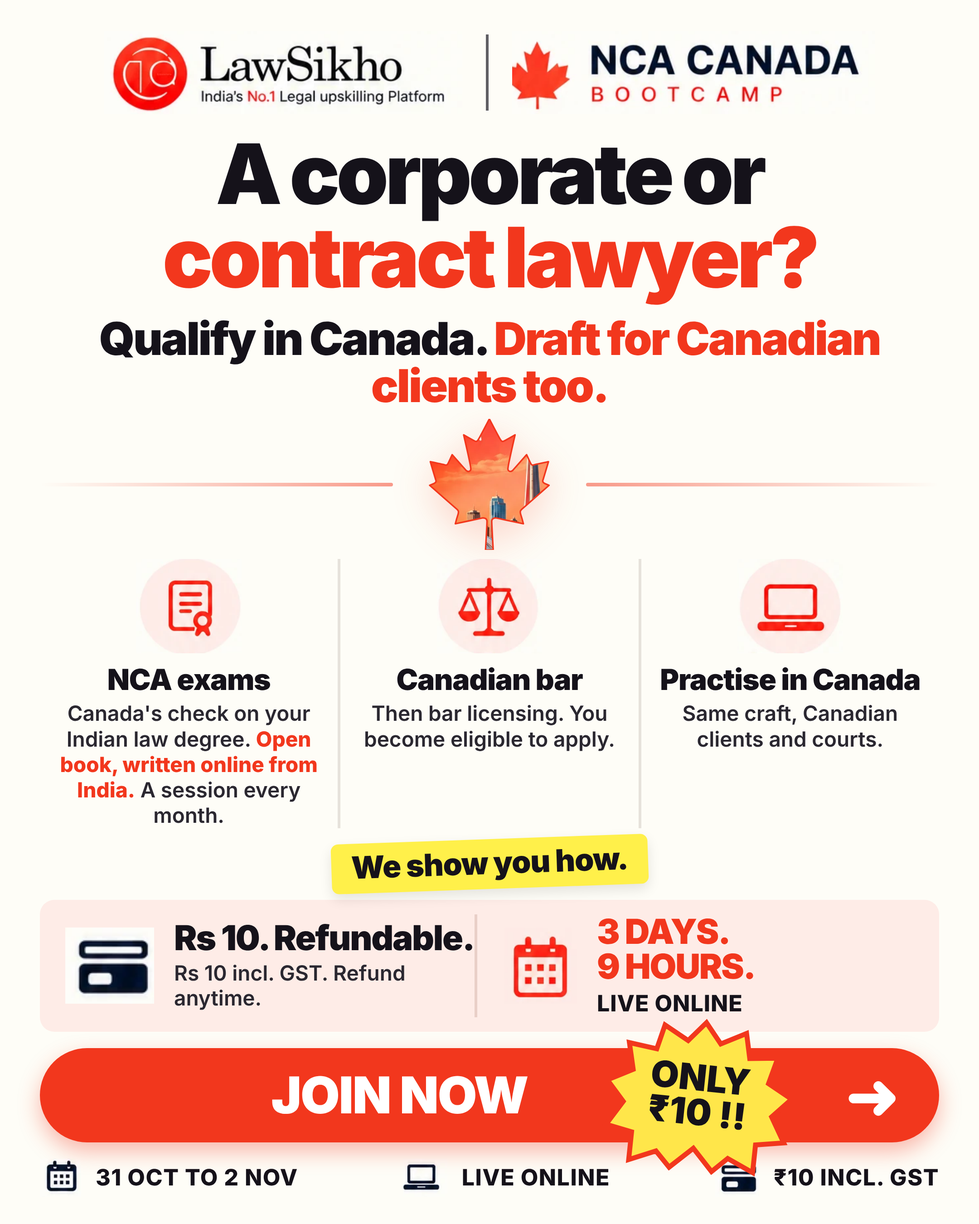
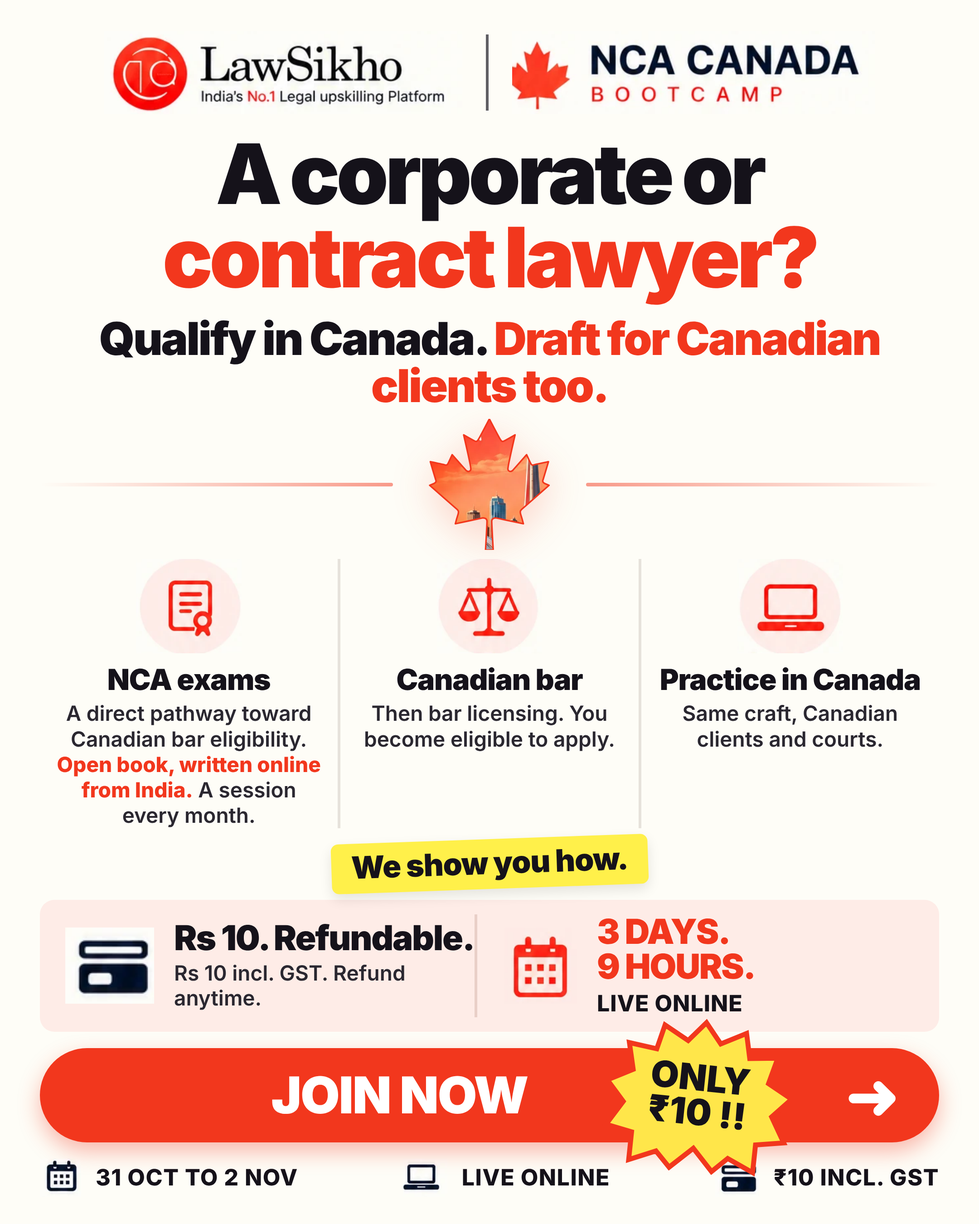
NCA pillar line and practice spelling, on instruction
Pillar line is now: A direct pathway toward Canadian bar eligibility. Open
book, written online from India. A session every month. Faces use practice
and practicing everywhere. README records both decisions and the flags that
were raised and overruled, with the one-line way back.

Claude-Session: https://claude.ai/code/session_01Rgy1nQS1Vhzfu9YdFrEqSi

Changed region(s): [[0.062, 0.56, 0.3412, 0.6844]]

diff --git a/creatives/NCA_SkylineTemplate/html/nca_sky_01_broad_thinking_about_canada.html b/creatives/NCA_SkylineTemplate/html/nca_sky_01_broad_thinking_about_canada.html
@@ -42,11 +42,11 @@ em{font-style:normal;color:#F2371D}
 .foot img{height:42px;width:auto}
 </style></head><body>
 <div class="hdr"><img src="../assets/logo_lawsikho.png"><div class="div"></div><img src="../assets/brand_nca.png"></div>
-<div class="copy"><div class="hook">A lawyer who keeps thinking <em>about Canada?</em></div><div class="prize">You could <em>practise law in Canada</em> with your Indian LLB.</div></div>
+<div class="copy"><div class="hook">A lawyer who keeps thinking <em>about Canada?</em></div><div class="prize">You could <em>practice law in Canada</em> with your Indian LLB.</div></div>
 <div class="leafbox"><div class="rule l"></div><div class="leafwrap"><svg viewBox="0 0 512 512" preserveAspectRatio="xMidYMid meet"><defs><clipPath id="leaf"><path d="M383.8 351.7c2.5-2.5 105.2-92.4 105.2-92.4l-17.5-7.5c-10-4.9-7.4-11.5-5-17.4 2.4-7.6 20.1-67.3 20.1-67.3s-47.7 10-57.7 12.5c-7.5 2.4-10-2.5-12.5-7.5s-15-32.4-15-32.4-52.6 59.9-55.1 62.3c-10 7.5-20.1 0-17.6-10 0-10 27.6-129.6 27.6-129.6s-30.1 17.4-40.1 22.4c-7.5 5-12.6 5-17.6-5C293.5 72.3 255.9 0 255.9 0s-37.5 72.3-42.5 79.8c-5 10-10 10-17.6 5-10-5-40.1-22.4-40.1-22.4s27.6 119.6 27.6 129.6c2.5 10-7.5 17.5-17.5 10-2.5-2.5-55.1-62.3-55.1-62.3s-12.5 27.5-15 32.4c-2.5 5.1-5 10-12.5 7.5-10-2.5-57.7-12.5-57.7-12.5s17.7 59.7 20.1 67.3c2.4 6 5 12.5-5 17.4L23 259.3s102.6 89.9 105.2 92.4c5.1 5 10 7.5 5.1 22.5-5.1 15-10.1 35.1-10.1 35.1s95.2-20.1 105.3-22.6c8.7-.9 18.3 2.5 18.3 12.5S241 512 241 512h30s-5.8-102.7-5.8-112.8 9.5-13.4 18.3-12.5c10 2.5 105.3 22.6 105.3 22.6s-5-20.1-10.1-35.1c-4.9-15 0-17.5 5.1-22.5z"/></clipPath></defs>
 <image href="../assets/skyline_fill.png" x="0" y="0" width="512" height="512" preserveAspectRatio="xMidYMid slice" clip-path="url(#leaf)"/>
 <path d="M383.8 351.7c2.5-2.5 105.2-92.4 105.2-92.4l-17.5-7.5c-10-4.9-7.4-11.5-5-17.4 2.4-7.6 20.1-67.3 20.1-67.3s-47.7 10-57.7 12.5c-7.5 2.4-10-2.5-12.5-7.5s-15-32.4-15-32.4-52.6 59.9-55.1 62.3c-10 7.5-20.1 0-17.6-10 0-10 27.6-129.6 27.6-129.6s-30.1 17.4-40.1 22.4c-7.5 5-12.6 5-17.6-5C293.5 72.3 255.9 0 255.9 0s-37.5 72.3-42.5 79.8c-5 10-10 10-17.6 5-10-5-40.1-22.4-40.1-22.4s27.6 119.6 27.6 129.6c2.5 10-7.5 17.5-17.5 10-2.5-2.5-55.1-62.3-55.1-62.3s-12.5 27.5-15 32.4c-2.5 5.1-5 10-12.5 7.5-10-2.5-57.7-12.5-57.7-12.5s17.7 59.7 20.1 67.3c2.4 6 5 12.5-5 17.4L23 259.3s102.6 89.9 105.2 92.4c5.1 5 10 7.5 5.1 22.5-5.1 15-10.1 35.1-10.1 35.1s95.2-20.1 105.3-22.6c8.7-.9 18.3 2.5 18.3 12.5S241 512 241 512h30s-5.8-102.7-5.8-112.8 9.5-13.4 18.3-12.5c10 2.5 105.3 22.6 105.3 22.6s-5-20.1-10.1-35.1c-4.9-15 0-17.5 5.1-22.5z" fill="none" stroke="#F2371D" stroke-width="6" stroke-linejoin="round"/></svg></div><div class="rule r"></div></div>
-<div class="pillars"><div class="pil"><img src="../assets/icon_nca.png"><div class="pt">NCA exams</div><div class="pd">Canada's check on your Indian law degree. <em>Open book, written online from India.</em> A session every month.</div></div><div class="pil"><img src="../assets/icon_bar.png"><div class="pt">Canadian bar</div><div class="pd">Then bar licensing. You become eligible to apply.</div></div><div class="pil"><img src="../assets/icon_laptop.png"><div class="pt">Practise in Canada</div><div class="pd">Same craft, Canadian clients and courts.</div></div></div>
+<div class="pillars"><div class="pil"><img src="../assets/icon_nca.png"><div class="pt">NCA exams</div><div class="pd">A direct pathway toward Canadian bar eligibility. <em>Open book, written online from India.</em> A session every month.</div></div><div class="pil"><img src="../assets/icon_bar.png"><div class="pt">Canadian bar</div><div class="pd">Then bar licensing. You become eligible to apply.</div></div><div class="pil"><img src="../assets/icon_laptop.png"><div class="pt">Practice in Canada</div><div class="pd">Same craft, Canadian clients and courts.</div></div></div>
 <div class="sticker">We show you how.</div>
 <div class="band">
  <div class="cell"><img src="../assets/foot_card.png"><div><div class="cb">Rs 10. Refundable.</div><div class="cs">Rs 10 incl. GST. Refund anytime.</div></div></div>

diff --git a/creatives/NCA_SkylineTemplate/html/nca_sky_03_fresh_graduate.html b/creatives/NCA_SkylineTemplate/html/nca_sky_03_fresh_graduate.html
@@ -42,11 +42,11 @@ em{font-style:normal;color:#F2371D}
 .foot img{height:42px;width:auto}
 </style></head><body>
 <div class="hdr"><img src="../assets/logo_lawsikho.png"><div class="div"></div><img src="../assets/brand_nca.png"></div>
-<div class="copy"><div class="hook">LLB done, <em>not yet practising?</em></div><div class="prize">Your Indian LLB can take you to <em>practise in Canada.</em></div></div>
+<div class="copy"><div class="hook">LLB done, <em>not yet practicing?</em></div><div class="prize">Your Indian LLB can take you to <em>practice in Canada.</em></div></div>
 <div class="leafbox"><div class="rule l"></div><div class="leafwrap"><svg viewBox="0 0 512 512" preserveAspectRatio="xMidYMid meet"><defs><clipPath id="leaf"><path d="M383.8 351.7c2.5-2.5 105.2-92.4 105.2-92.4l-17.5-7.5c-10-4.9-7.4-11.5-5-17.4 2.4-7.6 20.1-67.3 20.1-67.3s-47.7 10-57.7 12.5c-7.5 2.4-10-2.5-12.5-7.5s-15-32.4-15-32.4-52.6 59.9-55.1 62.3c-10 7.5-20.1 0-17.6-10 0-10 27.6-129.6 27.6-129.6s-30.1 17.4-40.1 22.4c-7.5 5-12.6 5-17.6-5C293.5 72.3 255.9 0 255.9 0s-37.5 72.3-42.5 79.8c-5 10-10 10-17.6 5-10-5-40.1-22.4-40.1-22.4s27.6 119.6 27.6 129.6c2.5 10-7.5 17.5-17.5 10-2.5-2.5-55.1-62.3-55.1-62.3s-12.5 27.5-15 32.4c-2.5 5.1-5 10-12.5 7.5-10-2.5-57.7-12.5-57.7-12.5s17.7 59.7 20.1 67.3c2.4 6 5 12.5-5 17.4L23 259.3s102.6 89.9 105.2 92.4c5.1 5 10 7.5 5.1 22.5-5.1 15-10.1 35.1-10.1 35.1s95.2-20.1 105.3-22.6c8.7-.9 18.3 2.5 18.3 12.5S241 512 241 512h30s-5.8-102.7-5.8-112.8 9.5-13.4 18.3-12.5c10 2.5 105.3 22.6 105.3 22.6s-5-20.1-10.1-35.1c-4.9-15 0-17.5 5.1-22.5z"/></clipPath></defs>
 <image href="../assets/skyline_fill.png" x="0" y="0" width="512" height="512" preserveAspectRatio="xMidYMid slice" clip-path="url(#leaf)"/>
 <path d="M383.8 351.7c2.5-2.5 105.2-92.4 105.2-92.4l-17.5-7.5c-10-4.9-7.4-11.5-5-17.4 2.4-7.6 20.1-67.3 20.1-67.3s-47.7 10-57.7 12.5c-7.5 2.4-10-2.5-12.5-7.5s-15-32.4-15-32.4-52.6 59.9-55.1 62.3c-10 7.5-20.1 0-17.6-10 0-10 27.6-129.6 27.6-129.6s-30.1 17.4-40.1 22.4c-7.5 5-12.6 5-17.6-5C293.5 72.3 255.9 0 255.9 0s-37.5 72.3-42.5 79.8c-5 10-10 10-17.6 5-10-5-40.1-22.4-40.1-22.4s27.6 119.6 27.6 129.6c2.5 10-7.5 17.5-17.5 10-2.5-2.5-55.1-62.3-55.1-62.3s-12.5 27.5-15 32.4c-2.5 5.1-5 10-12.5 7.5-10-2.5-57.7-12.5-57.7-12.5s17.7 59.7 20.1 67.3c2.4 6 5 12.5-5 17.4L23 259.3s102.6 89.9 105.2 92.4c5.1 5 10 7.5 5.1 22.5-5.1 15-10.1 35.1-10.1 35.1s95.2-20.1 105.3-22.6c8.7-.9 18.3 2.5 18.3 12.5S241 512 241 512h30s-5.8-102.7-5.8-112.8 9.5-13.4 18.3-12.5c10 2.5 105.3 22.6 105.3 22.6s-5-20.1-10.1-35.1c-4.9-15 0-17.5 5.1-22.5z" fill="none" stroke="#F2371D" stroke-width="6" stroke-linejoin="round"/></svg></div><div class="rule r"></div></div>
-<div class="pillars"><div class="pil"><img src="../assets/icon_nca.png"><div class="pt">NCA exams</div><div class="pd">Canada's check on your Indian law degree. <em>Open book, written online from India.</em> A session every month.</div></div><div class="pil"><img src="../assets/icon_bar.png"><div class="pt">Canadian bar</div><div class="pd">Then bar licensing. You become eligible to apply.</div></div><div class="pil"><img src="../assets/icon_laptop.png"><div class="pt">Practise in Canada</div><div class="pd">Same craft, Canadian clients and courts.</div></div></div>
+<div class="pillars"><div class="pil"><img src="../assets/icon_nca.png"><div class="pt">NCA exams</div><div class="pd">A direct pathway toward Canadian bar eligibility. <em>Open book, written online from India.</em> A session every month.</div></div><div class="pil"><img src="../assets/icon_bar.png"><div class="pt">Canadian bar</div><div class="pd">Then bar licensing. You become eligible to apply.</div></div><div class="pil"><img src="../assets/icon_laptop.png"><div class="pt">Practice in Canada</div><div class="pd">Same craft, Canadian clients and courts.</div></div></div>
 <div class="sticker">We show you how.</div>
 <div class="band">
  <div class="cell"><img src="../assets/foot_card.png"><div><div class="cb">Rs 10. Refundable.</div><div class="cs">Rs 10 incl. GST. Refund anytime.</div></div></div>

diff --git a/creatives/NCA_SkylineTemplate/html/nca_sky_02_final_year_student.html b/creatives/NCA_SkylineTemplate/html/nca_sky_02_final_year_student.html
@@ -46,7 +46,7 @@ em{font-style:normal;color:#F2371D}
 <div class="leafbox"><div class="rule l"></div><div class="leafwrap"><svg viewBox="0 0 512 512" preserveAspectRatio="xMidYMid meet"><defs><clipPath id="leaf"><path d="M383.8 351.7c2.5-2.5 105.2-92.4 105.2-92.4l-17.5-7.5c-10-4.9-7.4-11.5-5-17.4 2.4-7.6 20.1-67.3 20.1-67.3s-47.7 10-57.7 12.5c-7.5 2.4-10-2.5-12.5-7.5s-15-32.4-15-32.4-52.6 59.9-55.1 62.3c-10 7.5-20.1 0-17.6-10 0-10 27.6-129.6 27.6-129.6s-30.1 17.4-40.1 22.4c-7.5 5-12.6 5-17.6-5C293.5 72.3 255.9 0 255.9 0s-37.5 72.3-42.5 79.8c-5 10-10 10-17.6 5-10-5-40.1-22.4-40.1-22.4s27.6 119.6 27.6 129.6c2.5 10-7.5 17.5-17.5 10-2.5-2.5-55.1-62.3-55.1-62.3s-12.5 27.5-15 32.4c-2.5 5.1-5 10-12.5 7.5-10-2.5-57.7-12.5-57.7-12.5s17.7 59.7 20.1 67.3c2.4 6 5 12.5-5 17.4L23 259.3s102.6 89.9 105.2 92.4c5.1 5 10 7.5 5.1 22.5-5.1 15-10.1 35.1-10.1 35.1s95.2-20.1 105.3-22.6c8.7-.9 18.3 2.5 18.3 12.5S241 512 241 512h30s-5.8-102.7-5.8-112.8 9.5-13.4 18.3-12.5c10 2.5 105.3 22.6 105.3 22.6s-5-20.1-10.1-35.1c-4.9-15 0-17.5 5.1-22.5z"/></clipPath></defs>
 <image href="../assets/skyline_fill.png" x="0" y="0" width="512" height="512" preserveAspectRatio="xMidYMid slice" clip-path="url(#leaf)"/>
 <path d="M383.8 351.7c2.5-2.5 105.2-92.4 105.2-92.4l-17.5-7.5c-10-4.9-7.4-11.5-5-17.4 2.4-7.6 20.1-67.3 20.1-67.3s-47.7 10-57.7 12.5c-7.5 2.4-10-2.5-12.5-7.5s-15-32.4-15-32.4-52.6 59.9-55.1 62.3c-10 7.5-20.1 0-17.6-10 0-10 27.6-129.6 27.6-129.6s-30.1 17.4-40.1 22.4c-7.5 5-12.6 5-17.6-5C293.5 72.3 255.9 0 255.9 0s-37.5 72.3-42.5 79.8c-5 10-10 10-17.6 5-10-5-40.1-22.4-40.1-22.4s27.6 119.6 27.6 129.6c2.5 10-7.5 17.5-17.5 10-2.5-2.5-55.1-62.3-55.1-62.3s-12.5 27.5-15 32.4c-2.5 5.1-5 10-12.5 7.5-10-2.5-57.7-12.5-57.7-12.5s17.7 59.7 20.1 67.3c2.4 6 5 12.5-5 17.4L23 259.3s102.6 89.9 105.2 92.4c5.1 5 10 7.5 5.1 22.5-5.1 15-10.1 35.1-10.1 35.1s95.2-20.1 105.3-22.6c8.7-.9 18.3 2.5 18.3 12.5S241 512 241 512h30s-5.8-102.7-5.8-112.8 9.5-13.4 18.3-12.5c10 2.5 105.3 22.6 105.3 22.6s-5-20.1-10.1-35.1c-4.9-15 0-17.5 5.1-22.5z" fill="none" stroke="#F2371D" stroke-width="6" stroke-linejoin="round"/></svg></div><div class="rule r"></div></div>
-<div class="pillars"><div class="pil"><img src="../assets/icon_nca.png"><div class="pt">NCA exams</div><div class="pd">Canada's check on your Indian law degree. <em>Open book, written online from India.</em> A session every month.</div></div><div class="pil"><img src="../assets/icon_bar.png"><div class="pt">Canadian bar</div><div class="pd">Then bar licensing. You become eligible to apply.</div></div><div class="pil"><img src="../assets/icon_laptop.png"><div class="pt">Practise in Canada</div><div class="pd">Same craft, Canadian clients and courts.</div></div></div>
+<div class="pillars"><div class="pil"><img src="../assets/icon_nca.png"><div class="pt">NCA exams</div><div class="pd">A direct pathway toward Canadian bar eligibility. <em>Open book, written online from India.</em> A session every month.</div></div><div class="pil"><img src="../assets/icon_bar.png"><div class="pt">Canadian bar</div><div class="pd">Then bar licensing. You become eligible to apply.</div></div><div class="pil"><img src="../assets/icon_laptop.png"><div class="pt">Practice in Canada</div><div class="pd">Same craft, Canadian clients and courts.</div></div></div>
 <div class="sticker">We show you how.</div>
 <div class="band">
  <div class="cell"><img src="../assets/foot_card.png"><div><div class="cb">Rs 10. Refundable.</div><div class="cs">Rs 10 incl. GST. Refund anytime.</div></div></div>

diff --git a/creatives/NCA_SkylineTemplate/html/nca_sky_04_newly_enrolled_advocate.html b/creatives/NCA_SkylineTemplate/html/nca_sky_04_newly_enrolled_advocate.html
@@ -46,7 +46,7 @@ em{font-style:normal;color:#F2371D}
 <div class="leafbox"><div class="rule l"></div><div class="leafwrap"><svg viewBox="0 0 512 512" preserveAspectRatio="xMidYMid meet"><defs><clipPath id="leaf"><path d="M383.8 351.7c2.5-2.5 105.2-92.4 105.2-92.4l-17.5-7.5c-10-4.9-7.4-11.5-5-17.4 2.4-7.6 20.1-67.3 20.1-67.3s-47.7 10-57.7 12.5c-7.5 2.4-10-2.5-12.5-7.5s-15-32.4-15-32.4-52.6 59.9-55.1 62.3c-10 7.5-20.1 0-17.6-10 0-10 27.6-129.6 27.6-129.6s-30.1 17.4-40.1 22.4c-7.5 5-12.6 5-17.6-5C293.5 72.3 255.9 0 255.9 0s-37.5 72.3-42.5 79.8c-5 10-10 10-17.6 5-10-5-40.1-22.4-40.1-22.4s27.6 119.6 27.6 129.6c2.5 10-7.5 17.5-17.5 10-2.5-2.5-55.1-62.3-55.1-62.3s-12.5 27.5-15 32.4c-2.5 5.1-5 10-12.5 7.5-10-2.5-57.7-12.5-57.7-12.5s17.7 59.7 20.1 67.3c2.4 6 5 12.5-5 17.4L23 259.3s102.6 89.9 105.2 92.4c5.1 5 10 7.5 5.1 22.5-5.1 15-10.1 35.1-10.1 35.1s95.2-20.1 105.3-22.6c8.7-.9 18.3 2.5 18.3 12.5S241 512 241 512h30s-5.8-102.7-5.8-112.8 9.5-13.4 18.3-12.5c10 2.5 105.3 22.6 105.3 22.6s-5-20.1-10.1-35.1c-4.9-15 0-17.5 5.1-22.5z"/></clipPath></defs>
 <image href="../assets/skyline_fill.png" x="0" y="0" width="512" height="512" preserveAspectRatio="xMidYMid slice" clip-path="url(#leaf)"/>
 <path d="M383.8 351.7c2.5-2.5 105.2-92.4 105.2-92.4l-17.5-7.5c-10-4.9-7.4-11.5-5-17.4 2.4-7.6 20.1-67.3 20.1-67.3s-47.7 10-57.7 12.5c-7.5 2.4-10-2.5-12.5-7.5s-15-32.4-15-32.4-52.6 59.9-55.1 62.3c-10 7.5-20.1 0-17.6-10 0-10 27.6-129.6 27.6-129.6s-30.1 17.4-40.1 22.4c-7.5 5-12.6 5-17.6-5C293.5 72.3 255.9 0 255.9 0s-37.5 72.3-42.5 79.8c-5 10-10 10-17.6 5-10-5-40.1-22.4-40.1-22.4s27.6 119.6 27.6 129.6c2.5 10-7.5 17.5-17.5 10-2.5-2.5-55.1-62.3-55.1-62.3s-12.5 27.5-15 32.4c-2.5 5.1-5 10-12.5 7.5-10-2.5-57.7-12.5-57.7-12.5s17.7 59.7 20.1 67.3c2.4 6 5 12.5-5 17.4L23 259.3s102.6 89.9 105.2 92.4c5.1 5 10 7.5 5.1 22.5-5.1 15-10.1 35.1-10.1 35.1s95.2-20.1 105.3-22.6c8.7-.9 18.3 2.5 18.3 12.5S241 512 241 512h30s-5.8-102.7-5.8-112.8 9.5-13.4 18.3-12.5c10 2.5 105.3 22.6 105.3 22.6s-5-20.1-10.1-35.1c-4.9-15 0-17.5 5.1-22.5z" fill="none" stroke="#F2371D" stroke-width="6" stroke-linejoin="round"/></svg></div><div class="rule r"></div></div>
-<div class="pillars"><div class="pil"><img src="../assets/icon_nca.png"><div class="pt">NCA exams</div><div class="pd">Canada's check on your Indian law degree. <em>Open book, written online from India.</em> A session every month.</div></div><div class="pil"><img src="../assets/icon_bar.png"><div class="pt">Canadian bar</div><div class="pd">Then bar licensing. You become eligible to apply.</div></div><div class="pil"><img src="../assets/icon_laptop.png"><div class="pt">Practise in Canada</div><div class="pd">Same craft, Canadian clients and courts.</div></div></div>
+<div class="pillars"><div class="pil"><img src="../assets/icon_nca.png"><div class="pt">NCA exams</div><div class="pd">A direct pathway toward Canadian bar eligibility. <em>Open book, written online from India.</em> A session every month.</div></div><div class="pil"><img src="../assets/icon_bar.png"><div class="pt">Canadian bar</div><div class="pd">Then bar licensing. You become eligible to apply.</div></div><div class="pil"><img src="../assets/icon_laptop.png"><div class="pt">Practice in Canada</div><div class="pd">Same craft, Canadian clients and courts.</div></div></div>
 <div class="sticker">We show you how.</div>
 <div class="band">
  <div class="cell"><img src="../assets/foot_card.png"><div><div class="cb">Rs 10. Refundable.</div><div class="cs">Rs 10 incl. GST. Refund anytime.</div></div></div>

diff --git a/creatives/NCA_SkylineTemplate/html/nca_sky_05_experienced_advocate.html b/creatives/NCA_SkylineTemplate/html/nca_sky_05_experienced_advocate.html
@@ -46,7 +46,7 @@ em{font-style:normal;color:#F2371D}
 <div class="leafbox"><div class="rule l"></div><div class="leafwrap"><svg viewBox="0 0 512 512" preserveAspectRatio="xMidYMid meet"><defs><clipPath id="leaf"><path d="M383.8 351.7c2.5-2.5 105.2-92.4 105.2-92.4l-17.5-7.5c-10-4.9-7.4-11.5-5-17.4 2.4-7.6 20.1-67.3 20.1-67.3s-47.7 10-57.7 12.5c-7.5 2.4-10-2.5-12.5-7.5s-15-32.4-15-32.4-52.6 59.9-55.1 62.3c-10 7.5-20.1 0-17.6-10 0-10 27.6-129.6 27.6-129.6s-30.1 17.4-40.1 22.4c-7.5 5-12.6 5-17.6-5C293.5 72.3 255.9 0 255.9 0s-37.5 72.3-42.5 79.8c-5 10-10 10-17.6 5-10-5-40.1-22.4-40.1-22.4s27.6 119.6 27.6 129.6c2.5 10-7.5 17.5-17.5 10-2.5-2.5-55.1-62.3-55.1-62.3s-12.5 27.5-15 32.4c-2.5 5.1-5 10-12.5 7.5-10-2.5-57.7-12.5-57.7-12.5s17.7 59.7 20.1 67.3c2.4 6 5 12.5-5 17.4L23 259.3s102.6 89.9 105.2 92.4c5.1 5 10 7.5 5.1 22.5-5.1 15-10.1 35.1-10.1 35.1s95.2-20.1 105.3-22.6c8.7-.9 18.3 2.5 18.3 12.5S241 512 241 512h30s-5.8-102.7-5.8-112.8 9.5-13.4 18.3-12.5c10 2.5 105.3 22.6 105.3 22.6s-5-20.1-10.1-35.1c-4.9-15 0-17.5 5.1-22.5z"/></clipPath></defs>
 <image href="../assets/skyline_fill.png" x="0" y="0" width="512" height="512" preserveAspectRatio="xMidYMid slice" clip-path="url(#leaf)"/>
 <path d="M383.8 351.7c2.5-2.5 105.2-92.4 105.2-92.4l-17.5-7.5c-10-4.9-7.4-11.5-5-17.4 2.4-7.6 20.1-67.3 20.1-67.3s-47.7 10-57.7 12.5c-7.5 2.4-10-2.5-12.5-7.5s-15-32.4-15-32.4-52.6 59.9-55.1 62.3c-10 7.5-20.1 0-17.6-10 0-10 27.6-129.6 27.6-129.6s-30.1 17.4-40.1 22.4c-7.5 5-12.6 5-17.6-5C293.5 72.3 255.9 0 255.9 0s-37.5 72.3-42.5 79.8c-5 10-10 10-17.6 5-10-5-40.1-22.4-40.1-22.4s27.6 119.6 27.6 129.6c2.5 10-7.5 17.5-17.5 10-2.5-2.5-55.1-62.3-55.1-62.3s-12.5 27.5-15 32.4c-2.5 5.1-5 10-12.5 7.5-10-2.5-57.7-12.5-57.7-12.5s17.7 59.7 20.1 67.3c2.4 6 5 12.5-5 17.4L23 259.3s102.6 89.9 105.2 92.4c5.1 5 10 7.5 5.1 22.5-5.1 15-10.1 35.1-10.1 35.1s95.2-20.1 105.3-22.6c8.7-.9 18.3 2.5 18.3 12.5S241 512 241 512h30s-5.8-102.7-5.8-112.8 9.5-13.4 18.3-12.5c10 2.5 105.3 22.6 105.3 22.6s-5-20.1-10.1-35.1c-4.9-15 0-17.5 5.1-22.5z" fill="none" stroke="#F2371D" stroke-width="6" stroke-linejoin="round"/></svg></div><div class="rule r"></div></div>
-<div class="pillars"><div class="pil"><img src="../assets/icon_nca.png"><div class="pt">NCA exams</div><div class="pd">Canada's check on your Indian law degree. <em>Open book, written online from India.</em> A session every month.</div></div><div class="pil"><img src="../assets/icon_bar.png"><div class="pt">Canadian bar</div><div class="pd">Then bar licensing. You become eligible to apply.</div></div><div class="pil"><img src="../assets/icon_laptop.png"><div class="pt">Practise in Canada</div><div class="pd">Same craft, Canadian clients and courts.</div></div></div>
+<div class="pillars"><div class="pil"><img src="../assets/icon_nca.png"><div class="pt">NCA exams</div><div class="pd">A direct pathway toward Canadian bar eligibility. <em>Open book, written online from India.</em> A session every month.</div></div><div class="pil"><img src="../assets/icon_bar.png"><div class="pt">Canadian bar</div><div class="pd">Then bar licensing. You become eligible to apply.</div></div><div class="pil"><img src="../assets/icon_laptop.png"><div class="pt">Practice in Canada</div><div class="pd">Same craft, Canadian clients and courts.</div></div></div>
 <div class="sticker">We show you how.</div>
 <div class="band">
  <div class="cell"><img src="../assets/foot_card.png"><div><div class="cb">Rs 10. Refundable.</div><div class="cs">Rs 10 incl. GST. Refund anytime.</div></div></div>

diff --git a/creatives/NCA_SkylineTemplate/html/nca_sky_06_litigator.html b/creatives/NCA_SkylineTemplate/html/nca_sky_06_litigator.html
@@ -46,7 +46,7 @@ em{font-style:normal;color:#F2371D}
 <div class="leafbox"><div class="rule l"></div><div class="leafwrap"><svg viewBox="0 0 512 512" preserveAspectRatio="xMidYMid meet"><defs><clipPath id="leaf"><path d="M383.8 351.7c2.5-2.5 105.2-92.4 105.2-92.4l-17.5-7.5c-10-4.9-7.4-11.5-5-17.4 2.4-7.6 20.1-67.3 20.1-67.3s-47.7 10-57.7 12.5c-7.5 2.4-10-2.5-12.5-7.5s-15-32.4-15-32.4-52.6 59.9-55.1 62.3c-10 7.5-20.1 0-17.6-10 0-10 27.6-129.6 27.6-129.6s-30.1 17.4-40.1 22.4c-7.5 5-12.6 5-17.6-5C293.5 72.3 255.9 0 255.9 0s-37.5 72.3-42.5 79.8c-5 10-10 10-17.6 5-10-5-40.1-22.4-40.1-22.4s27.6 119.6 27.6 129.6c2.5 10-7.5 17.5-17.5 10-2.5-2.5-55.1-62.3-55.1-62.3s-12.5 27.5-15 32.4c-2.5 5.1-5 10-12.5 7.5-10-2.5-57.7-12.5-57.7-12.5s17.7 59.7 20.1 67.3c2.4 6 5 12.5-5 17.4L23 259.3s102.6 89.9 105.2 92.4c5.1 5 10 7.5 5.1 22.5-5.1 15-10.1 35.1-10.1 35.1s95.2-20.1 105.3-22.6c8.7-.9 18.3 2.5 18.3 12.5S241 512 241 512h30s-5.8-102.7-5.8-112.8 9.5-13.4 18.3-12.5c10 2.5 105.3 22.6 105.3 22.6s-5-20.1-10.1-35.1c-4.9-15 0-17.5 5.1-22.5z"/></clipPath></defs>
 <image href="../assets/skyline_fill.png" x="0" y="0" width="512" height="512" preserveAspectRatio="xMidYMid slice" clip-path="url(#leaf)"/>
 <path d="M383.8 351.7c2.5-2.5 105.2-92.4 105.2-92.4l-17.5-7.5c-10-4.9-7.4-11.5-5-17.4 2.4-7.6 20.1-67.3 20.1-67.3s-47.7 10-57.7 12.5c-7.5 2.4-10-2.5-12.5-7.5s-15-32.4-15-32.4-52.6 59.9-55.1 62.3c-10 7.5-20.1 0-17.6-10 0-10 27.6-129.6 27.6-129.6s-30.1 17.4-40.1 22.4c-7.5 5-12.6 5-17.6-5C293.5 72.3 255.9 0 255.9 0s-37.5 72.3-42.5 79.8c-5 10-10 10-17.6 5-10-5-40.1-22.4-40.1-22.4s27.6 119.6 27.6 129.6c2.5 10-7.5 17.5-17.5 10-2.5-2.5-55.1-62.3-55.1-62.3s-12.5 27.5-15 32.4c-2.5 5.1-5 10-12.5 7.5-10-2.5-57.7-12.5-57.7-12.5s17.7 59.7 20.1 67.3c2.4 6 5 12.5-5 17.4L23 259.3s102.6 89.9 105.2 92.4c5.1 5 10 7.5 5.1 22.5-5.1 15-10.1 35.1-10.1 35.1s95.2-20.1 105.3-22.6c8.7-.9 18.3 2.5 18.3 12.5S241 512 241 512h30s-5.8-102.7-5.8-112.8 9.5-13.4 18.3-12.5c10 2.5 105.3 22.6 105.3 22.6s-5-20.1-10.1-35.1c-4.9-15 0-17.5 5.1-22.5z" fill="none" stroke="#F2371D" stroke-width="6" stroke-linejoin="round"/></svg></div><div class="rule r"></div></div>
-<div class="pillars"><div class="pil"><img src="../assets/icon_nca.png"><div class="pt">NCA exams</div><div class="pd">Canada's check on your Indian law degree. <em>Open book, written online from India.</em> A session every month.</div></div><div class="pil"><img src="../assets/icon_bar.png"><div class="pt">Canadian bar</div><div class="pd">Then bar licensing. You become eligible to apply.</div></div><div class="pil"><img src="../assets/icon_laptop.png"><div class="pt">Practise in Canada</div><div class="pd">Same craft, Canadian clients and courts.</div></div></div>
+<div class="pillars"><div class="pil"><img src="../assets/icon_nca.png"><div class="pt">NCA exams</div><div class="pd">A direct pathway toward Canadian bar eligibility. <em>Open book, written online from India.</em> A session every month.</div></div><div class="pil"><img src="../assets/icon_bar.png"><div class="pt">Canadian bar</div><div class="pd">Then bar licensing. You become eligible to apply.</div></div><div class="pil"><img src="../assets/icon_laptop.png"><div class="pt">Practice in Canada</div><div class="pd">Same craft, Canadian clients and courts.</div></div></div>
 <div class="sticker">We show you how.</div>
 <div class="band">
  <div class="cell"><img src="../assets/foot_card.png"><div><div class="cb">Rs 10. Refundable.</div><div class="cs">Rs 10 incl. GST. Refund anytime.</div></div></div>

diff --git a/creatives/NCA_SkylineTemplate/html/nca_sky_07_corporate_contract_lawyer.html b/creatives/NCA_SkylineTemplate/html/nca_sky_07_corporate_contract_lawyer.html
@@ -46,7 +46,7 @@ em{font-style:normal;color:#F2371D}
 <div class="leafbox"><div class="rule l"></div><div class="leafwrap"><svg viewBox="0 0 512 512" preserveAspectRatio="xMidYMid meet"><defs><clipPath id="leaf"><path d="M383.8 351.7c2.5-2.5 105.2-92.4 105.2-92.4l-17.5-7.5c-10-4.9-7.4-11.5-5-17.4 2.4-7.6 20.1-67.3 20.1-67.3s-47.7 10-57.7 12.5c-7.5 2.4-10-2.5-12.5-7.5s-15-32.4-15-32.4-52.6 59.9-55.1 62.3c-10 7.5-20.1 0-17.6-10 0-10 27.6-129.6 27.6-129.6s-30.1 17.4-40.1 22.4c-7.5 5-12.6 5-17.6-5C293.5 72.3 255.9 0 255.9 0s-37.5 72.3-42.5 79.8c-5 10-10 10-17.6 5-10-5-40.1-22.4-40.1-22.4s27.6 119.6 27.6 129.6c2.5 10-7.5 17.5-17.5 10-2.5-2.5-55.1-62.3-55.1-62.3s-12.5 27.5-15 32.4c-2.5 5.1-5 10-12.5 7.5-10-2.5-57.7-12.5-57.7-12.5s17.7 59.7 20.1 67.3c2.4 6 5 12.5-5 17.4L23 259.3s102.6 89.9 105.2 92.4c5.1 5 10 7.5 5.1 22.5-5.1 15-10.1 35.1-10.1 35.1s95.2-20.1 105.3-22.6c8.7-.9 18.3 2.5 18.3 12.5S241 512 241 512h30s-5.8-102.7-5.8-112.8 9.5-13.4 18.3-12.5c10 2.5 105.3 22.6 105.3 22.6s-5-20.1-10.1-35.1c-4.9-15 0-17.5 5.1-22.5z"/></clipPath></defs>
 <image href="../assets/skyline_fill.png" x="0" y="0" width="512" height="512" preserveAspectRatio="xMidYMid slice" clip-path="url(#leaf)"/>
 <path d="M383.8 351.7c2.5-2.5 105.2-92.4 105.2-92.4l-17.5-7.5c-10-4.9-7.4-11.5-5-17.4 2.4-7.6 20.1-67.3 20.1-67.3s-47.7 10-57.7 12.5c-7.5 2.4-10-2.5-12.5-7.5s-15-32.4-15-32.4-52.6 59.9-55.1 62.3c-10 7.5-20.1 0-17.6-10 0-10 27.6-129.6 27.6-129.6s-30.1 17.4-40.1 22.4c-7.5 5-12.6 5-17.6-5C293.5 72.3 255.9 0 255.9 0s-37.5 72.3-42.5 79.8c-5 10-10 10-17.6 5-10-5-40.1-22.4-40.1-22.4s27.6 119.6 27.6 129.6c2.5 10-7.5 17.5-17.5 10-2.5-2.5-55.1-62.3-55.1-62.3s-12.5 27.5-15 32.4c-2.5 5.1-5 10-12.5 7.5-10-2.5-57.7-12.5-57.7-12.5s17.7 59.7 20.1 67.3c2.4 6 5 12.5-5 17.4L23 259.3s102.6 89.9 105.2 92.4c5.1 5 10 7.5 5.1 22.5-5.1 15-10.1 35.1-10.1 35.1s95.2-20.1 105.3-22.6c8.7-.9 18.3 2.5 18.3 12.5S241 512 241 512h30s-5.8-102.7-5.8-112.8 9.5-13.4 18.3-12.5c10 2.5 105.3 22.6 105.3 22.6s-5-20.1-10.1-35.1c-4.9-15 0-17.5 5.1-22.5z" fill="none" stroke="#F2371D" stroke-width="6" stroke-linejoin="round"/></svg></div><div class="rule r"></div></div>
-<div class="pillars"><div class="pil"><img src="../assets/icon_nca.png"><div class="pt">NCA exams</div><div class="pd">Canada's check on your Indian law degree. <em>Open book, written online from India.</em> A session every month.</div></div><div class="pil"><img src="../assets/icon_bar.png"><div class="pt">Canadian bar</div><div class="pd">Then bar licensing. You become eligible to apply.</div></div><div class="pil"><img src="../assets/icon_laptop.png"><div class="pt">Practise in Canada</div><div class="pd">Same craft, Canadian clients and courts.</div></div></div>
+<div class="pillars"><div class="pil"><img src="../assets/icon_nca.png"><div class="pt">NCA exams</div><div class="pd">A direct pathway toward Canadian bar eligibility. <em>Open book, written online from India.</em> A session every month.</div></div><div class="pil"><img src="../assets/icon_bar.png"><div class="pt">Canadian bar</div><div class="pd">Then bar licensing. You become eligible to apply.</div></div><div class="pil"><img src="../assets/icon_laptop.png"><div class="pt">Practice in Canada</div><div class="pd">Same craft, Canadian clients and courts.</div></div></div>
 <div class="sticker">We show you how.</div>
 <div class="band">
  <div class="cell"><img src="../assets/foot_card.png"><div><div class="cb">Rs 10. Refundable.</div><div class="cs">Rs 10 incl. GST. Refund anytime.</div></div></div>

diff --git a/creatives/NCA_SkylineTemplate/html/nca_sky_08_law_firm_associate.html b/creatives/NCA_SkylineTemplate/html/nca_sky_08_law_firm_associate.html
@@ -46,7 +46,7 @@ em{font-style:normal;color:#F2371D}
 <div class="leafbox"><div class="rule l"></div><div class="leafwrap"><svg viewBox="0 0 512 512" preserveAspectRatio="xMidYMid meet"><defs><clipPath id="leaf"><path d="M383.8 351.7c2.5-2.5 105.2-92.4 105.2-92.4l-17.5-7.5c-10-4.9-7.4-11.5-5-17.4 2.4-7.6 20.1-67.3 20.1-67.3s-47.7 10-57.7 12.5c-7.5 2.4-10-2.5-12.5-7.5s-15-32.4-15-32.4-52.6 59.9-55.1 62.3c-10 7.5-20.1 0-17.6-10 0-10 27.6-129.6 27.6-129.6s-30.1 17.4-40.1 22.4c-7.5 5-12.6 5-17.6-5C293.5 72.3 255.9 0 255.9 0s-37.5 72.3-42.5 79.8c-5 10-10 10-17.6 5-10-5-40.1-22.4-40.1-22.4s27.6 119.6 27.6 129.6c2.5 10-7.5 17.5-17.5 10-2.5-2.5-55.1-62.3-55.1-62.3s-12.5 27.5-15 32.4c-2.5 5.1-5 10-12.5 7.5-10-2.5-57.7-12.5-57.7-12.5s17.7 59.7 20.1 67.3c2.4 6 5 12.5-5 17.4L23 259.3s102.6 89.9 105.2 92.4c5.1 5 10 7.5 5.1 22.5-5.1 15-10.1 35.1-10.1 35.1s95.2-20.1 105.3-22.6c8.7-.9 18.3 2.5 18.3 12.5S241 512 241 512h30s-5.8-102.7-5.8-112.8 9.5-13.4 18.3-12.5c10 2.5 105.3 22.6 105.3 22.6s-5-20.1-10.1-35.1c-4.9-15 0-17.5 5.1-22.5z"/></clipPath></defs>
 <image href="../assets/skyline_fill.png" x="0" y="0" width="512" height="512" preserveAspectRatio="xMidYMid slice" clip-path="url(#leaf)"/>
 <path d="M383.8 351.7c2.5-2.5 105.2-92.4 105.2-92.4l-17.5-7.5c-10-4.9-7.4-11.5-5-17.4 2.4-7.6 20.1-67.3 20.1-67.3s-47.7 10-57.7 12.5c-7.5 2.4-10-2.5-12.5-7.5s-15-32.4-15-32.4-52.6 59.9-55.1 62.3c-10 7.5-20.1 0-17.6-10 0-10 27.6-129.6 27.6-129.6s-30.1 17.4-40.1 22.4c-7.5 5-12.6 5-17.6-5C293.5 72.3 255.9 0 255.9 0s-37.5 72.3-42.5 79.8c-5 10-10 10-17.6 5-10-5-40.1-22.4-40.1-22.4s27.6 119.6 27.6 129.6c2.5 10-7.5 17.5-17.5 10-2.5-2.5-55.1-62.3-55.1-62.3s-12.5 27.5-15 32.4c-2.5 5.1-5 10-12.5 7.5-10-2.5-57.7-12.5-57.7-12.5s17.7 59.7 20.1 67.3c2.4 6 5 12.5-5 17.4L23 259.3s102.6 89.9 105.2 92.4c5.1 5 10 7.5 5.1 22.5-5.1 15-10.1 35.1-10.1 35.1s95.2-20.1 105.3-22.6c8.7-.9 18.3 2.5 18.3 12.5S241 512 241 512h30s-5.8-102.7-5.8-112.8 9.5-13.4 18.3-12.5c10 2.5 105.3 22.6 105.3 22.6s-5-20.1-10.1-35.1c-4.9-15 0-17.5 5.1-22.5z" fill="none" stroke="#F2371D" stroke-width="6" stroke-linejoin="round"/></svg></div><div class="rule r"></div></div>
-<div class="pillars"><div class="pil"><img src="../assets/icon_nca.png"><div class="pt">NCA exams</div><div class="pd">Canada's check on your Indian law degree. <em>Open book, written online from India.</em> A session every month.</div></div><div class="pil"><img src="../assets/icon_bar.png"><div class="pt">Canadian bar</div><div class="pd">Then bar licensing. You become eligible to apply.</div></div><div class="pil"><img src="../assets/icon_laptop.png"><div class="pt">Practise in Canada</div><div class="pd">Same craft, Canadian clients and courts.</div></div></div>
+<div class="pillars"><div class="pil"><img src="../assets/icon_nca.png"><div class="pt">NCA exams</div><div class="pd">A direct pathway toward Canadian bar eligibility. <em>Open book, written online from India.</em> A session every month.</div></div><div class="pil"><img src="../assets/icon_bar.png"><div class="pt">Canadian bar</div><div class="pd">Then bar licensing. You become eligible to apply.</div></div><div class="pil"><img src="../assets/icon_laptop.png"><div class="pt">Practice in Canada</div><div class="pd">Same craft, Canadian clients and courts.</div></div></div>
 <div class="sticker">We show you how.</div>
 <div class="band">
  <div class="cell"><img src="../assets/foot_card.png"><div><div class="cb">Rs 10. Refundable.</div><div class="cs">Rs 10 incl. GST. Refund anytime.</div></div></div>

diff --git a/creatives/NCA_SkylineTemplate/html/nca_sky_09_moving_to_canada.html b/creatives/NCA_SkylineTemplate/html/nca_sky_09_moving_to_canada.html
@@ -46,7 +46,7 @@ em{font-style:normal;color:#F2371D}
 <div class="leafbox"><div class="rule l"></div><div class="leafwrap"><svg viewBox="0 0 512 512" preserveAspectRatio="xMidYMid meet"><defs><clipPath id="leaf"><path d="M383.8 351.7c2.5-2.5 105.2-92.4 105.2-92.4l-17.5-7.5c-10-4.9-7.4-11.5-5-17.4 2.4-7.6 20.1-67.3 20.1-67.3s-47.7 10-57.7 12.5c-7.5 2.4-10-2.5-12.5-7.5s-15-32.4-15-32.4-52.6 59.9-55.1 62.3c-10 7.5-20.1 0-17.6-10 0-10 27.6-129.6 27.6-129.6s-30.1 17.4-40.1 22.4c-7.5 5-12.6 5-17.6-5C293.5 72.3 255.9 0 255.9 0s-37.5 72.3-42.5 79.8c-5 10-10 10-17.6 5-10-5-40.1-22.4-40.1-22.4s27.6 119.6 27.6 129.6c2.5 10-7.5 17.5-17.5 10-2.5-2.5-55.1-62.3-55.1-62.3s-12.5 27.5-15 32.4c-2.5 5.1-5 10-12.5 7.5-10-2.5-57.7-12.5-57.7-12.5s17.7 59.7 20.1 67.3c2.4 6 5 12.5-5 17.4L23 259.3s102.6 89.9 105.2 92.4c5.1 5 10 7.5 5.1 22.5-5.1 15-10.1 35.1-10.1 35.1s95.2-20.1 105.3-22.6c8.7-.9 18.3 2.5 18.3 12.5S241 512 241 512h30s-5.8-102.7-5.8-112.8 9.5-13.4 18.3-12.5c10 2.5 105.3 22.6 105.3 22.6s-5-20.1-10.1-35.1c-4.9-15 0-17.5 5.1-22.5z"/></clipPath></defs>
 <image href="../assets/skyline_fill.png" x="0" y="0" width="512" height="512" preserveAspectRatio="xMidYMid slice" clip-path="url(#leaf)"/>
 <path d="M383.8 351.7c2.5-2.5 105.2-92.4 105.2-92.4l-17.5-7.5c-10-4.9-7.4-11.5-5-17.4 2.4-7.6 20.1-67.3 20.1-67.3s-47.7 10-57.7 12.5c-7.5 2.4-10-2.5-12.5-7.5s-15-32.4-15-32.4-52.6 59.9-55.1 62.3c-10 7.5-20.1 0-17.6-10 0-10 27.6-129.6 27.6-129.6s-30.1 17.4-40.1 22.4c-7.5 5-12.6 5-17.6-5C293.5 72.3 255.9 0 255.9 0s-37.5 72.3-42.5 79.8c-5 10-10 10-17.6 5-10-5-40.1-22.4-40.1-22.4s27.6 119.6 27.6 129.6c2.5 10-7.5 17.5-17.5 10-2.5-2.5-55.1-62.3-55.1-62.3s-12.5 27.5-15 32.4c-2.5 5.1-5 10-12.5 7.5-10-2.5-57.7-12.5-57.7-12.5s17.7 59.7 20.1 67.3c2.4 6 5 12.5-5 17.4L23 259.3s102.6 89.9 105.2 92.4c5.1 5 10 7.5 5.1 22.5-5.1 15-10.1 35.1-10.1 35.1s95.2-20.1 105.3-22.6c8.7-.9 18.3 2.5 18.3 12.5S241 512 241 512h30s-5.8-102.7-5.8-112.8 9.5-13.4 18.3-12.5c10 2.5 105.3 22.6 105.3 22.6s-5-20.1-10.1-35.1c-4.9-15 0-17.5 5.1-22.5z" fill="none" stroke="#F2371D" stroke-width="6" stroke-linejoin="round"/></svg></div><div class="rule r"></div></div>
-<div class="pillars"><div class="pil"><img src="../assets/icon_nca.png"><div class="pt">NCA exams</div><div class="pd">Canada's check on your Indian law degree. <em>Open book, written online from India.</em> A session every month.</div></div><div class="pil"><img src="../assets/icon_bar.png"><div class="pt">Canadian bar</div><div class="pd">Then bar licensing. You become eligible to apply.</div></div><div class="pil"><img src="../assets/icon_laptop.png"><div class="pt">Practise in Canada</div><div class="pd">Same craft, Canadian clients and courts.</div></div></div>
+<div class="pillars"><div class="pil"><img src="../assets/icon_nca.png"><div class="pt">NCA exams</div><div class="pd">A direct pathway toward Canadian bar eligibility. <em>Open book, written online from India.</em> A session every month.</div></div><div class="pil"><img src="../assets/icon_bar.png"><div class="pt">Canadian bar</div><div class="pd">Then bar licensing. You become eligible to apply.</div></div><div class="pil"><img src="../assets/icon_laptop.png"><div class="pt">Practice in Canada</div><div class="pd">Same craft, Canadian clients and courts.</div></div></div>
 <div class="sticker">We show you how.</div>
 <div class="band">
  <div class="cell"><img src="../assets/foot_card.png"><div><div class="cb">Rs 10. Refundable.</div><div class="cs">Rs 10 incl. GST. Refund anytime.</div></div></div>

diff --git a/creatives/NCA_SkylineTemplate/html/nca_sky_10_in_house_counsel.html b/creatives/NCA_SkylineTemplate/html/nca_sky_10_in_house_counsel.html
@@ -46,7 +46,7 @@ em{font-style:normal;color:#F2371D}
 <div class="leafbox"><div class="rule l"></div><div class="leafwrap"><svg viewBox="0 0 512 512" preserveAspectRatio="xMidYMid meet"><defs><clipPath id="leaf"><path d="M383.8 351.7c2.5-2.5 105.2-92.4 105.2-92.4l-17.5-7.5c-10-4.9-7.4-11.5-5-17.4 2.4-7.6 20.1-67.3 20.1-67.3s-47.7 10-57.7 12.5c-7.5 2.4-10-2.5-12.5-7.5s-15-32.4-15-32.4-52.6 59.9-55.1 62.3c-10 7.5-20.1 0-17.6-10 0-10 27.6-129.6 27.6-129.6s-30.1 17.4-40.1 22.4c-7.5 5-12.6 5-17.6-5C293.5 72.3 255.9 0 255.9 0s-37.5 72.3-42.5 79.8c-5 10-10 10-17.6 5-10-5-40.1-22.4-40.1-22.4s27.6 119.6 27.6 129.6c2.5 10-7.5 17.5-17.5 10-2.5-2.5-55.1-62.3-55.1-62.3s-12.5 27.5-15 32.4c-2.5 5.1-5 10-12.5 7.5-10-2.5-57.7-12.5-57.7-12.5s17.7 59.7 20.1 67.3c2.4 6 5 12.5-5 17.4L23 259.3s102.6 89.9 105.2 92.4c5.1 5 10 7.5 5.1 22.5-5.1 15-10.1 35.1-10.1 35.1s95.2-20.1 105.3-22.6c8.7-.9 18.3 2.5 18.3 12.5S241 512 241 512h30s-5.8-102.7-5.8-112.8 9.5-13.4 18.3-12.5c10 2.5 105.3 22.6 105.3 22.6s-5-20.1-10.1-35.1c-4.9-15 0-17.5 5.1-22.5z"/></clipPath></defs>
 <image href="../assets/skyline_fill.png" x="0" y="0" width="512" height="512" preserveAspectRatio="xMidYMid slice" clip-path="url(#leaf)"/>
 <path d="M383.8 351.7c2.5-2.5 105.2-92.4 105.2-92.4l-17.5-7.5c-10-4.9-7.4-11.5-5-17.4 2.4-7.6 20.1-67.3 20.1-67.3s-47.7 10-57.7 12.5c-7.5 2.4-10-2.5-12.5-7.5s-15-32.4-15-32.4-52.6 59.9-55.1 62.3c-10 7.5-20.1 0-17.6-10 0-10 27.6-129.6 27.6-129.6s-30.1 17.4-40.1 22.4c-7.5 5-12.6 5-17.6-5C293.5 72.3 255.9 0 255.9 0s-37.5 72.3-42.5 79.8c-5 10-10 10-17.6 5-10-5-40.1-22.4-40.1-22.4s27.6 119.6 27.6 129.6c2.5 10-7.5 17.5-17.5 10-2.5-2.5-55.1-62.3-55.1-62.3s-12.5 27.5-15 32.4c-2.5 5.1-5 10-12.5 7.5-10-2.5-57.7-12.5-57.7-12.5s17.7 59.7 20.1 67.3c2.4 6 5 12.5-5 17.4L23 259.3s102.6 89.9 105.2 92.4c5.1 5 10 7.5 5.1 22.5-5.1 15-10.1 35.1-10.1 35.1s95.2-20.1 105.3-22.6c8.7-.9 18.3 2.5 18.3 12.5S241 512 241 512h30s-5.8-102.7-5.8-112.8 9.5-13.4 18.3-12.5c10 2.5 105.3 22.6 105.3 22.6s-5-20.1-10.1-35.1c-4.9-15 0-17.5 5.1-22.5z" fill="none" stroke="#F2371D" stroke-width="6" stroke-linejoin="round"/></svg></div><div class="rule r"></div></div>
-<div class="pillars"><div class="pil"><img src="../assets/icon_nca.png"><div class="pt">NCA exams</div><div class="pd">Canada's check on your Indian law degree. <em>Open book, written online from India.</em> A session every month.</div></div><div class="pil"><img src="../assets/icon_bar.png"><div class="pt">Canadian bar</div><div class="pd">Then bar licensing. You become eligible to apply.</div></div><div class="pil"><img src="../assets/icon_laptop.png"><div class="pt">Practise in Canada</div><div class="pd">Same craft, Canadian clients and courts.</div></div></div>
+<div class="pillars"><div class="pil"><img src="../assets/icon_nca.png"><div class="pt">NCA exams</div><div class="pd">A direct pathway toward Canadian bar eligibility. <em>Open book, written online from India.</em> A session every month.</div></div><div class="pil"><img src="../assets/icon_bar.png"><div class="pt">Canadian bar</div><div class="pd">Then bar licensing. You become eligible to apply.</div></div><div class="pil"><img src="../assets/icon_laptop.png"><div class="pt">Practice in Canada</div><div class="pd">Same craft, Canadian clients and courts.</div></div></div>
 <div class="sticker">We show you how.</div>
 <div class="band">
  <div class="cell"><img src="../assets/foot_card.png"><div><div class="cb">Rs 10. Refundable.</div><div class="cs">Rs 10 incl. GST. Refund anytime.</div></div></div>

diff --git a/creatives/NCA_SkylineTemplate/template.py b/creatives/NCA_SkylineTemplate/template.py
@@ -6,8 +6,8 @@ band, JOIN NOW button, footer. Variable per ad: the hook (call-out question) and
 line (value proposition). Hook and prize sit centered above the leaf, so the face stays
 balanced for any hook length.
 
-Spelling rule (Indian English): "practise" is the verb (practise law in Canada), "practice"
-is the noun (keep your practice). Keep both; do not flatten to one form.
+Spelling: "practice"/"practicing" everywhere, on Ruchika's instruction of 7 Oct 2026 (the
+Indian-English verb form "practise" was flagged and overruled; see README).
 
 Canvas 1080 x 1350 (Meta 4:5). Fonts: Inter (installed). Assets in assets/ are cut from the
 reference ad in reference/original.webp.
@@ -16,15 +16,15 @@ reference ad in reference/original.webp.
 DEFAULTS = dict(
     # VARIABLE PER AD. Wrap the red part in <em>...</em>.
     hook="A lawyer who keeps thinking <em>about Canada?</em>",
-    prize="You could <em>practise law in Canada.</em>",
+    prize="You could <em>practice law in Canada.</em>",
     # Height budgets before the fitter shrinks the type (px).
     hook_max_height=196, hook_max_px=100,
     prize_max_height=108, prize_max_px=68,
-    # FIXED FOR THE WAVE. Three route pillars: NCA exams, then bar licensing, then practise.
+    # FIXED FOR THE WAVE. Three route pillars: NCA exams, then bar licensing, then practice.
     pillars=[
-        ("icon_nca.png", "NCA exams", "Canada's check on your Indian law degree. <em>Open book, written online from India.</em> A session every month."),
+        ("icon_nca.png", "NCA exams", "A direct pathway toward Canadian bar eligibility. <em>Open book, written online from India.</em> A session every month."),
         ("icon_bar.png", "Canadian bar", "Then bar licensing. You become eligible to apply."),
-        ("icon_laptop.png", "Practise in Canada", "Same craft, Canadian clients and courts."),
+        ("icon_laptop.png", "Practice in Canada", "Same craft, Canadian clients and courts."),
     ],
     sticker="We show you how.",
     band_left_big="Rs 10. Refundable.",

diff --git a/creatives/NCA_SkylineTemplate/README.md b/creatives/NCA_SkylineTemplate/README.md
@@ -14,12 +14,18 @@ incl. GST). Hook and prize sit centered above the leaf, so the face stays balanc
 hook length; the reference's cropped right-edge leaf is replaced by the complete one.
 Logo and icons are cut from the reference ad into `assets/`.
 
-## Spelling: practise vs practice
+## Spelling and the NCA pillar line (decided 7 Oct 2026)
 
-Indian and Canadian legal English both use **practise** for the verb ("practise law in
-Canada", "not yet practising") and **practice** for the noun ("keep your practice"). Every
-line on these faces follows that rule. Do not flatten to one form; "practice law" on a face
-aimed at lawyers reads as an error to the reader we are naming.
+- **Spelling:** the faces use **practice / practicing** everywhere, on Ruchika's instruction.
+  For the record, the flag raised and overruled: Indian and Canadian legal English use
+  "practise" for the verb and "practice" for the noun, so "practice law" may read as a typo
+  to some lawyer readers. One sed over `ads.json` and `template.py` flips it back.
+- **NCA pillar line:** now "A direct pathway toward Canadian bar eligibility. Open book,
+  written online from India. A session every month.", on Ruchika's instruction. The flag
+  raised and overruled: this drops the standing plain gloss ("Canada's check on your Indian
+  law degree"), so no line on the face says what the NCA is, which is the pattern his
+  "cryptic" verdicts catch. "Eligibility" itself is safe (his approved wording is "eligible
+  to apply"). One config value flips it back if he flags it.
 
 ## What changes per ad
 
